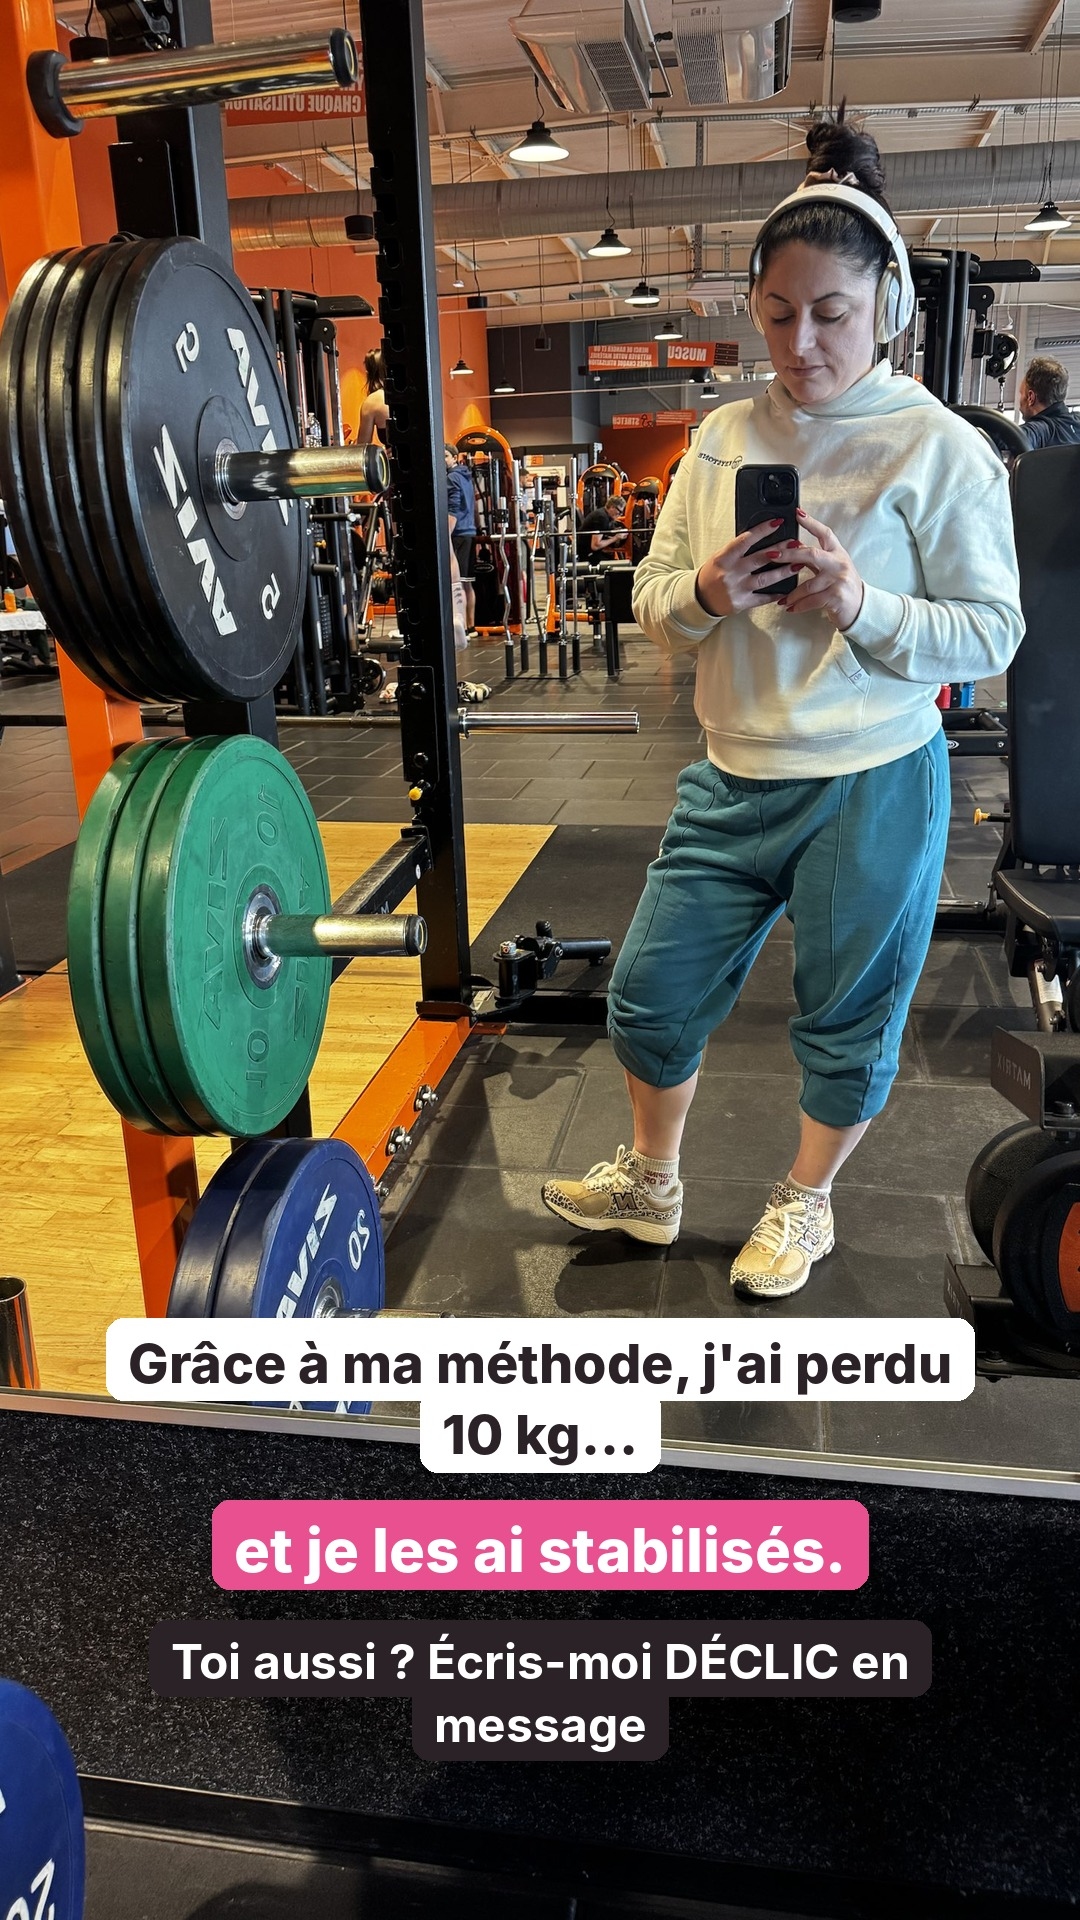
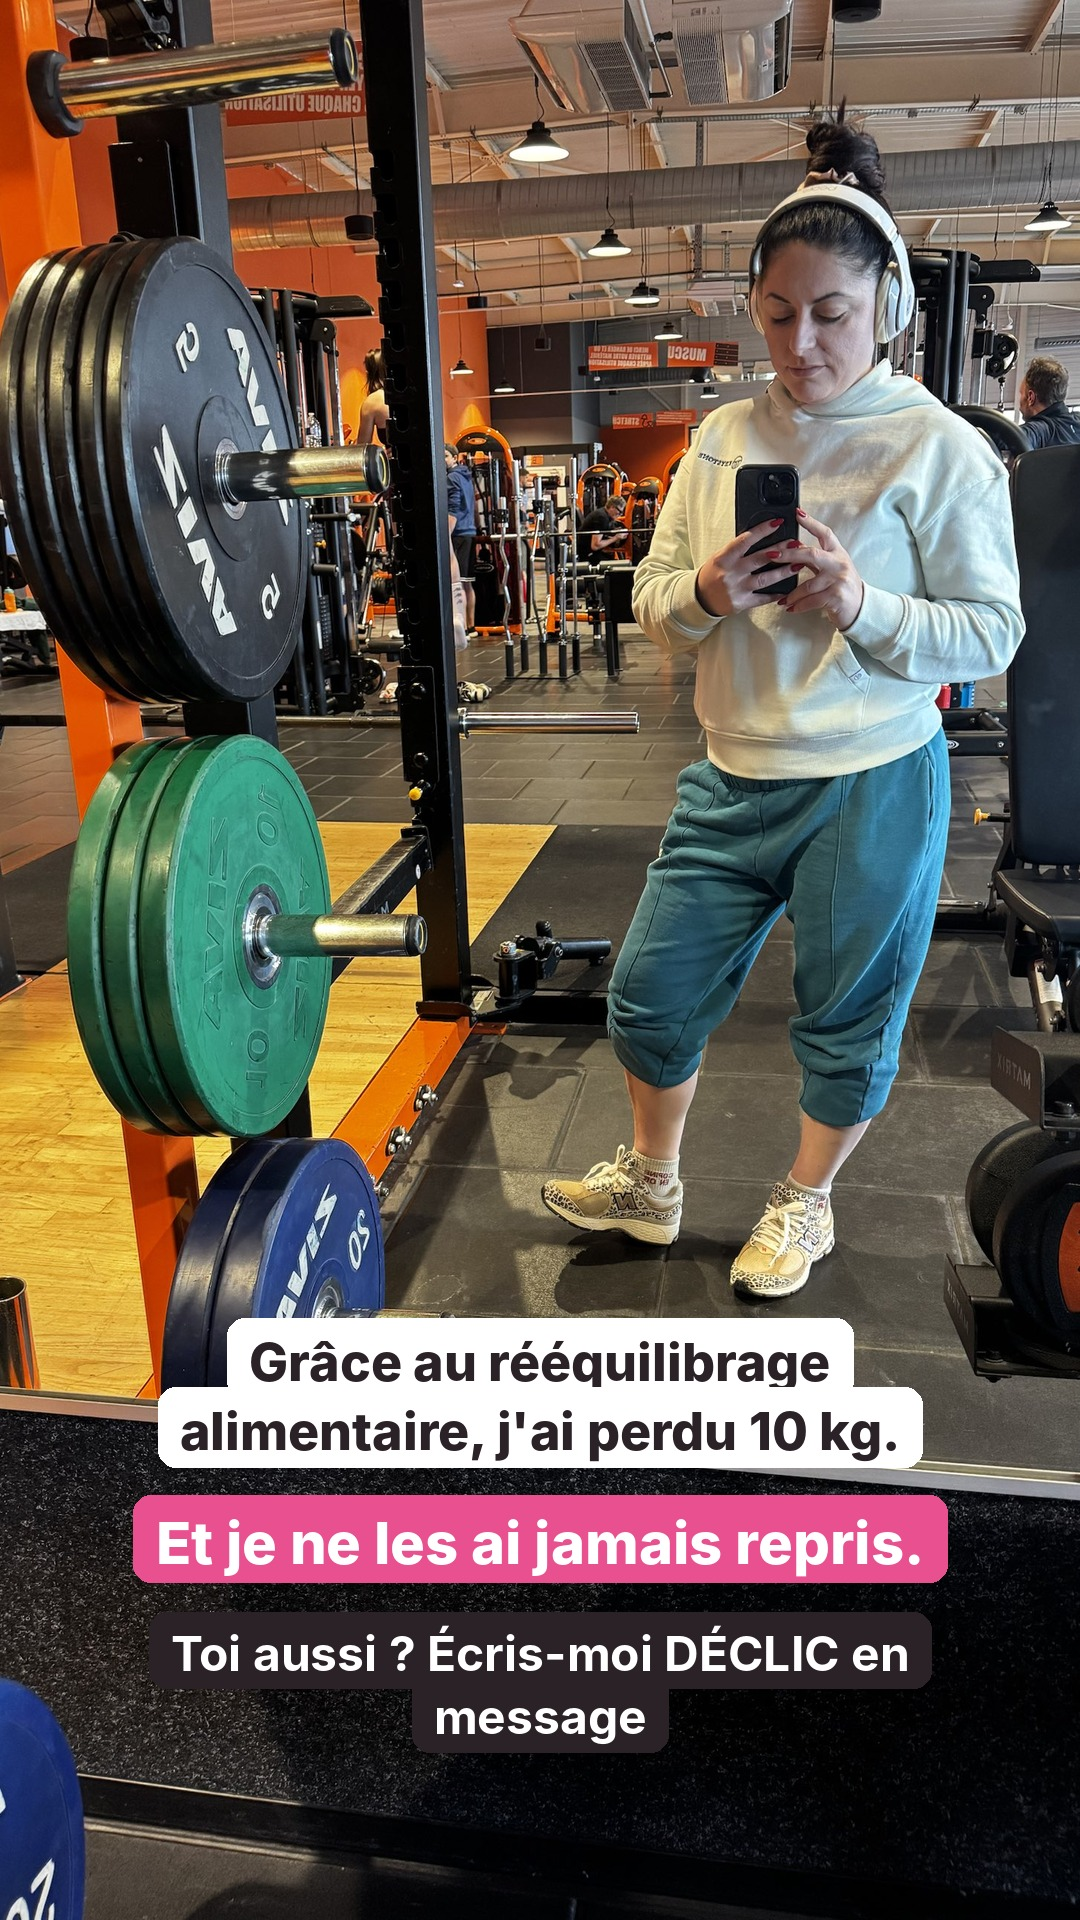
Stories jeudi : story 5 avec la phrase du carrousel
Claude-Session: https://claude.ai/code/session_01Qu7Kbk7XztmX7tXcsqwXcr

Changed region(s): [[0.0917, 0.6875, 0.9167, 0.9375]]

diff --git a/contenus/2026-11-26_stories_jeudi_avis_photos/story_05_salle.py b/contenus/2026-11-26_stories_jeudi_avis_photos/story_05_salle.py
@@ -1,7 +1,7 @@
-# Story 5 demandée par Hélène (26/11) : sa photo à la salle + « Grâce à ma méthode j'ai perdu et stabilisé » + CTA
+# Story 5 demandée par Hélène (26/11) : sa photo à la salle + phrase du carrousel « Mon histoire » + CTA
 STORIES = [
  {"photo": "contenus/2026-11-24_stories_lifestyle_photos/photos/2_salle.jpg", "y": 1330, "focus": 0.4, "blocs": [
-    ("Grâce à ma méthode, j'ai perdu 10 kg…", 54, "white"),
-    ("et je les ai stabilisés.", 60, "pink"),
+    ("Grâce au rééquilibrage alimentaire, j'ai perdu 10 kg.", 52, "white"),
+    ("Et je ne les ai jamais repris.", 58, "pink"),
     ("Toi aussi ? Écris-moi DÉCLIC en message", 48, "dark", "b")]},
 ]

diff --git a/CLAUDE.md b/CLAUDE.md
@@ -125,7 +125,7 @@ Règles des stories qui marchent (à appliquer) :
 | 25/11/2026 (mercredi) | **Stories « Sur moi », version pro** (7 stories natives : « Pourquoi il ne faut pas faire de régime strict pour perdre du poids », soignante, sondage, ma méthode, CTA DÉCLIC). Une 1re version trop perso a été refusée. | `contenus/2026-11-25_stories_mercredi_sur_moi/` (générateur réutilisable : `scripts/stories_natif.py` + `contenu.py`) | Montage perso → « Stories Mercredi sur moi (25-11) » |
 | 25/11/2026 | **Stories « Sur moi » version COURTE (4 stories)** demandée par Hélène : hook régime strict, soignante + programme trop strict, ma méthode, « Et toi ? » + CTA DÉCLIC (sondage Oui/Non à ajouter) | `contenus/2026-11-25_stories_mercredi_sur_moi_court/` | Montage perso → « Stories Mercredi sur moi COURT (25-11) » (`1jy5TgooPxcO8XCdFUPuPL9x4TSEBypF5`) |
 | 26/11/2026 (jeudi) | **Stories « Avis » (4 stories natives)** : pas encore de témoignages clientes → commentaires réels reçus sur Facebook, anonymes (« tous les aliments que je peux manger », « la liste ne doit pas être longue ») → « Eh bien si ! la liste est bien plus longue » → CTA DÉCLIC. Emojis à ajouter dans Instagram (la police ne les affiche pas). | `contenus/2026-11-26_stories_jeudi_avis/` | Montage perso → « Stories Jeudi avis (26-11) » (`1glnUQ2uh_1TBDBizoefsQqqug-u12H7l`) |
-| 26/11/2026 (jeudi) | **Stories « Avis » version PHOTOS** (même texte ; **règle d'Hélène : jamais les mêmes photos que des stories déjà publiées** → café, poire en voiture, vidéo des courses (story_03.mp4, jouée 2 fois), **story 4 « stats » du sondage de mardi (38 % mangent tard) sur son nouveau selfie t-shirt blanc** `contenus/photos/photo_2026-11-26_selfie_tshirt_blanc.png` (déjà utilisé le 26/11), story 5 = **sa photo salle choisie par elle** + « Grâce à ma méthode, j'ai perdu 10 kg… et je les ai stabilisés » + CTA DÉCLIC). Photo salle aussi dans le carrousel Mon histoire : elle accepte de la réutiliser quand c'est elle qui la choisit. : version préférée par Hélène. Photos déjà publiées : meal prep, flans, flans au four, gamelle muffin, selfie rose (mardi 24/11). Plus de photo neuve en stock : en demander. | `contenus/2026-11-26_stories_jeudi_avis_photos/` (outil : `scripts/stories_photo.py`) | Montage perso → « Stories Jeudi avis (26-11) / Version photos » (`1eO136HkVxP8NV8CFnXprHezZoYNpdCgn`) |
+| 26/11/2026 (jeudi) | **Stories « Avis » version PHOTOS** (même texte ; **règle d'Hélène : jamais les mêmes photos que des stories déjà publiées** → café, poire en voiture, vidéo des courses (story_03.mp4, jouée 2 fois), **story 4 « stats » du sondage de mardi (38 % mangent tard) sur son nouveau selfie t-shirt blanc** `contenus/photos/photo_2026-11-26_selfie_tshirt_blanc.png` (déjà utilisé le 26/11), story 5 = **sa photo salle choisie par elle** + phrase du carrousel « Grâce au rééquilibrage alimentaire, j'ai perdu 10 kg. Et je ne les ai jamais repris. » + CTA DÉCLIC). Photo salle aussi dans le carrousel Mon histoire : elle accepte de la réutiliser quand c'est elle qui la choisit. : version préférée par Hélène. Photos déjà publiées : meal prep, flans, flans au four, gamelle muffin, selfie rose (mardi 24/11). Plus de photo neuve en stock : en demander. | `contenus/2026-11-26_stories_jeudi_avis_photos/` (outil : `scripts/stories_photo.py`) | Montage perso → « Stories Jeudi avis (26-11) / Version photos » (`1eO136HkVxP8NV8CFnXprHezZoYNpdCgn`) |
 | 25/11/2026 | **PDF « Paiement en plusieurs fois : ce qui a changé »** (réforme du crédit à la consommation du 20/11/2026 : exclusions < 200 € et < 3 mois supprimées ; reste hors crédit le délai accordé par le vendeur lui-même, sans intérêt, payé sous 50 jours ; conseils : mois payés d'avance ou organisme agréé type Alma/PayPal 4×). Pour sa sœur. | `fiches/Paiement_en_plusieurs_fois_ce_qui_a_change.pdf` (source HTML à côté) | — |
 | 24/11/2026 | **Script YouTube « Tu as TOUT essayé pour perdre du poids ? Voici la VRAIE raison »** (hook, 5 raisons, vendre sans vendre, CTA, titre, miniature, description, chapitres, 6 MOFU repérés 🎬) | `scripts_videos/youtube_tout_essaye_vraie_raison.html` | Vidéo YouTube → Google Doc « Script YouTube – Tu as TOUT essayé ? » |
 | 24/11/2026 | **8 MOFU option C** tirés de la vidéo YouTube « Pourquoi ton régime ne fonctionne pas et ce n'est pas ta faute » (reçue par WeTransfer, sous-titres incrustés d'origine retirés par recadrage) | `contenus/2026-11-24_mofu_video_regime/` (vidéos sauvegardées dans le dépôt ; recette : `recette_montage.sh`, outil : `scripts/mofu.py`) ; **25/11 : MOFU 6 raccourci** (finit pile sur « …ma manière de bouger. », sans le « Ensuite… » coupé ni la fin muette où elle fait une drôle de tête : rendu jusqu'à 689.95 puis coupé à 79,87 s) | Pas sur le Drive (fichiers > 3 Mo) : envoyés dans le chat |
